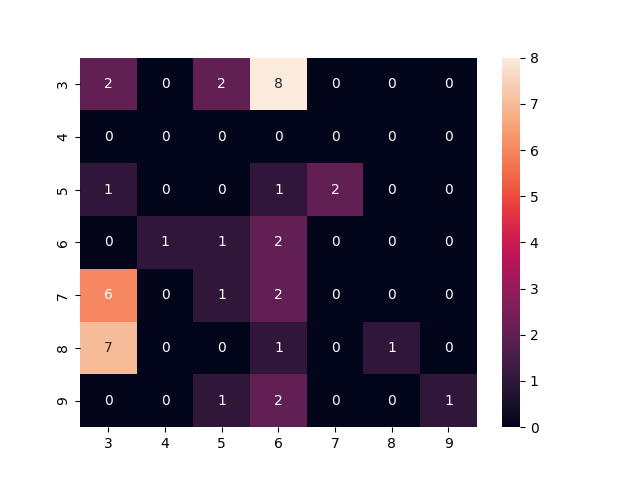
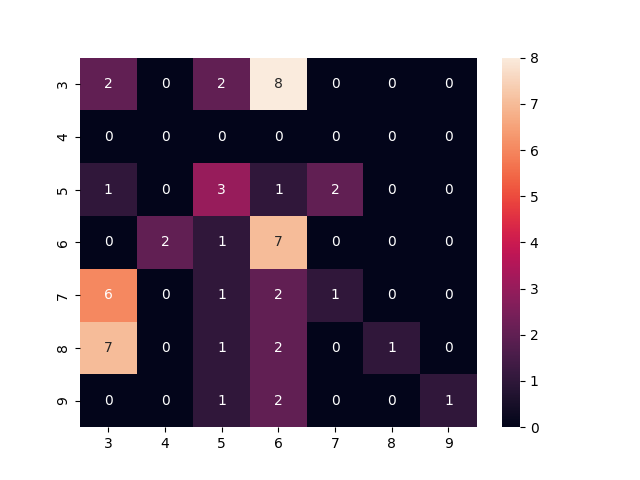
Fix offset and daily_wine

Changed region(s): [[0.1875, 0.3125, 0.5938, 0.7812]]

diff --git a/Lab1/wine-quality/daily-wine-feature-pipeline.py b/Lab1/wine-quality/daily-wine-feature-pipeline.py
@@ -1,4 +1,5 @@
 import os
+import random
 import modal
 import hopsworks
 
@@ -13,17 +14,17 @@ if LOCAL == False:
         g()
 
 # Generate a synthetic wine using random values between a min and max range
-def generate_wine(type_min, type_max, fixed_acidity_min, fixed_acidity_max,
+def generate_wine(quality, type_min, type_max, fixed_acidity_min, fixed_acidity_max,
                   volatile_acidity_min, volatile_acidity_max, citric_acid_min, citric_acid_max, 
                   residual_sugar_min, residual_sugar_max, chlorides_min, chlorides_max, 
                   free_sulfur_dioxide_min, free_sulfur_dioxide_max, total_sulfur_dioxide_min, 
                   total_sulfur_dioxide_max, density_min, density_max, ph_min, ph_max, 
-                  sulphates_min, sulphates_max, alcohol_min, alcohol_max, quality_min, quality_max):
+                  sulphates_min, sulphates_max, alcohol_min, alcohol_max):
     
     import pandas as pd
     import random
 
-    return pd.DataFrame({
+    wine_df = pd.DataFrame({
         "type": [random.randint(type_min, type_max)],
         "fixed_acidity": [random.uniform(fixed_acidity_min, fixed_acidity_max)],
         "volatile_acidity": [random.uniform(volatile_acidity_min, volatile_acidity_max)],
@@ -35,13 +36,17 @@ def generate_wine(type_min, type_max, fixed_acidity_min, fixed_acidity_max,
         "density": [random.uniform(density_min, density_max)],
         "ph": [random.uniform(ph_min, ph_max)],
         "sulphates": [random.uniform(sulphates_min, sulphates_max)],
-        "alcohol": [random.uniform(alcohol_min, alcohol_max)],
-        "quality": [random.randint(quality_min, quality_max)]
+        "alcohol": [random.uniform(alcohol_min, alcohol_max)]
+        #"quality": [random.randint(quality_min, quality_max)]
     })
+
+    wine_df['quality'] = int(quality)
+    return wine_df
 
 # Generate random flower with the min values and max values for each column as the boundries
 def get_random_wine():
-    wine = generate_wine(0,1,3.8,15.9,0.08,1.58,0,1.66,0.6,65.8,0.009,0.611,1,289,6,440,0.987110,1.038980,2.72,4.01,0.22,2,8,14.9,3,9)
+    quality = random.uniform(3,8)
+    wine = generate_wine(quality,0,1,3.8,15.9,0.08,1.58,0,1.66,0.6,65.8,0.009,0.611,1,289,6,440,0.987110,1.038980,2.72,4.01,0.22,2,8,14.9)
     print("Wine added")
     print(wine)
     return wine

diff --git a/Lab1/wine-quality/wine-batch-inference-pipeline.py b/Lab1/wine-quality/wine-batch-inference-pipeline.py
@@ -1,4 +1,5 @@
 import os
+import random
 import modal
     
 LOCAL=True
@@ -28,7 +29,7 @@ def g():
     
     # Get model and directory from Hopsworks
     mr = project.get_model_registry()
-    model = mr.get_model("wine_model_rf", version=1)
+    model = mr.get_model("wine_model_rf", version=4)
     model_dir = model.download()
     model = joblib.load(model_dir + "/wine_model_rf.pkl")
     
@@ -37,7 +38,8 @@ def g():
     
     # Predict the wine quality with our model and find the correct picture for it
     y_pred = model.predict(batch_data)
-    offset = 1
+    #offset = 1
+    offset =  random.randint(1, y_pred.size)
     quality = y_pred[y_pred.size-offset]
     wine_url = "https://raw.githubusercontent.com/gardaa/ID2223-ScalableML/main/Lab1/wine-quality/wine_images/" + str(quality) + ".jpg"
 
@@ -52,7 +54,7 @@ def g():
     wine_fg = fs.get_feature_group(name="wine", version=1)
     df = wine_fg.read() 
     label = df.iloc[-offset]["quality"]
-    label_url = "https://raw.githubusercontent.com/gardaa/ID2223-ScalableML/main/Lab1/wine-quality/wine_images/" + str(quality) + ".jpg"
+    label_url = "https://raw.githubusercontent.com/gardaa/ID2223-ScalableML/main/Lab1/wine-quality/wine_images/" + str(int(label)) + ".jpg"
     print("Actual quality: " + str(label))
     img = Image.open(requests.get(label_url, stream=True).raw)            
     img.save("./actual_quality.jpg")
